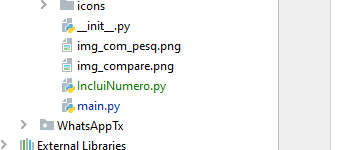
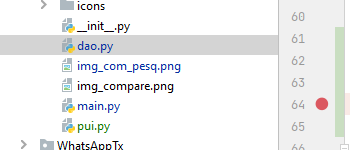
adicionado conexao com banco de dados

diff --git a/WhatsApp/main.py b/WhatsApp/main.py
@@ -4,7 +4,7 @@ from time import sleep
 from openpyxl import load_workbook
 
 import WhatsApp
-from WhatsApp.IncluiNumero import Dao
+from WhatsApp.dao import Dao
 
 texto = """
 Olá {nome}
@@ -35,7 +35,7 @@ café bem quentinho🥰
 *Para mais informações, consulte o regulamento em alguma de nossas lojas."""
 
 cod_campanha = 1
-xlsx_path = r"C:\Users\DEV\Desktop\CalceContatos\RESPOSTA SUL.xlsx"
+xlsx_path = r"C:\Users\DEV\Desktop\CalceContatos\Inauguração Calce Perfeito Guara.xlsx"
 file_path = r""
 
 xlsx = load_workbook(xlsx_path)
@@ -58,12 +58,20 @@ for r in range(2, max_row + 1):
     if cell_ok.value is not None:
         print(f"{cell_ok.value}", end=" ")
 
+    numero = str(cell_num.value).replace("(", "")
+
+    if len(numero) == 9:
+        numero = "61" + numero
+
+    if len(numero) == 10:
+        numero = "619" + numero[2:]
+
     if cell_ok.value != "Sim" and cell_ok.value != "Nao":
 
-        if not dao.existeNumero(cell_num.value):
+        if not dao.existeNumero(numero):
 
             #Retirando 619
-            numero = str(cell_num.value)[3:]
+            numero = str(numero)[3:]
 
             if WhatsApp.pesquisar(numero):
 

diff --git a/WhatsApp/dao.py b/WhatsApp/dao.py
@@ -1,5 +1,6 @@
 import cx_Oracle
 from cx_Oracle import Cursor
+from openpyxl import load_workbook
 
 cx_Oracle.init_oracle_client(lib_dir=r"C:\SN5\Oracle\instantclient_21_3")
 
@@ -32,7 +33,7 @@ class Dao:
 
 
 # cod_campanha = 1
-# xlsx_path = r"C:\Users\DEV\Desktop\CalceContatos\RESPOSTA SUL.xlsx"
+# xlsx_path = r"C:\Users\DEV\Desktop\CalceContatos\RESPOSTA GUARA.xlsx"
 #
 # xlsx = load_workbook(xlsx_path)
 # sheet = xlsx.active
@@ -51,5 +52,5 @@ class Dao:
 #
 #     if cell_ok.value == "Sim":
 #
-#         if not dao.existeNumero(cod_campanha, cell_num.value):
+#         if not dao.existeNumero(cell_num.value):
 #             dao.criaNumero(cod_campanha, cell_num.value)

diff --git a/WhatsApp/pui.py b/WhatsApp/pui.py
@@ -1,0 +1,30 @@
+import threading
+import time
+from tkinter import *
+
+def run():
+
+    for i in range(0, 20000000000000000000000000000000000000000000000):
+
+        listBox.insert(END, i)
+        listBox.see("end")
+        window.focus_set()
+
+window = Tk()
+
+window.title("WhatsApp")
+
+lblTitle = Label(window, text="Console", font=("Courier", 14))
+
+listBox = Listbox(window, height=10, width=52)
+scrollbar = Scrollbar(window)
+
+listBox.config(yscrollcommand=scrollbar.set)
+
+threading.Thread(target=run).start()
+
+lblTitle.pack()
+scrollbar.pack(side=RIGHT, fill=BOTH)
+listBox.pack()
+
+window.mainloop()
